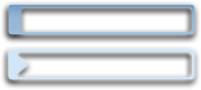
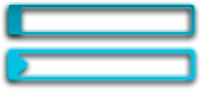
Add files via upload

diff --git a/css/main.css b/css/main.css
@@ -1,7 +1,11 @@
 /* COMMON */
-body { height: 100%;  margin: 0; display: flex; flex-direction: column; min-height: 100vh; font-family: Arial, Helvetica, sans-serif; font-size: 22px; color: #FFFFFF; text-decoration: none; margin: 0px; padding: 0px; background: url("../images/login_bg.png") no-repeat top, url(../images/starfield.gif) repeat, black; }
-a { font-size: 13px; color: #FFFFFF; text-decoration: none; }
-h1 { font-size: 13px; color: #FFFFFF; text-decoration: none; }
+body { height: 100%;  margin: 0; display: flex; flex-direction: column; min-height: 100vh; font-family: Arial, Helvetica, sans-serif; font-size: 22px; color: #FE6C02; text-decoration: none; margin: 0px; padding: 0px; background: url("../images/login_bg.png") no-repeat top, url(../images/starfield.gif) repeat, black; }
+p { font-size: 13px; color: #FE6C02; text-decoration: none; }
+li { font-size: 13px; color: #FE6C02; text-decoration: none; }
+a { font-size: 13px; color: #04D9FF; text-decoration: none; }
+h1 { font-size: 13px; color: #FE6C02; text-decoration: none; }
+i { font-size: 13px; color: #FE6C02; text-decoration: none; }
+c { font-size: 11px; color: #FFFFFF; }
 
 ul { list-style-image: url(../images/bullet1.png); }
 ul ul { list-style-image: url(../images/bullet2.png); }
@@ -13,67 +17,67 @@ img { border: none; }
 
 #topMenu { height: 59px; }
 #topMenuContainer { text-align: center; font-size: 10px; line-height: 24px; padding: 0px 10px; background: url(../images/top-menu_bg.png) top repeat-x; }
-#topMenu a { color: #DDDDDD; margin: auto 5px; }
-#topMenu a:hover { text-shadow: 0px 0px 5px #FFF; color: #FFFFFF; text-decoration: underline; }
+#topMenu a { margin: auto 5px; }
+#topMenu a:hover { text-shadow: 0px 0px 5px #04D9FF; text-decoration: underline; }
 
 /* TIP: Uncomment the following line to hide the top menu */
 /*#topMenuContainer { display: none; }*/
 
 #site { position: relative; height: 168px; text-align: center; } 
-#site h1 { position: relative; top: 110px; left: 280px; width: 400px; margin: 0px auto; font-size: 22px; text-align: center; text-shadow: 0px 2px 10px #000; }
-#site h1 span { text-shadow: 0px 0px 3px #000, 0px 2px 6px #7adefe, 0px 2px 14px #7adefe; }
+#site h1 { position: relative; top: 110px; left: 280px; width: 400px; margin: 0px auto; font-size: 22px; text-align: center; text-shadow: 0px 2px 10px #FE6C02; }
+#site h1 span { text-shadow: 0px 0px 3px #FE6C02, 0px 2px 6px #04D9FF, 0px 2px 14px #FE6C02; }
 
 #mainMenu { position: absolute; width: 100%; top: 330px; text-align: center; height: 41px; background: url(../images/main-menu_bg.png) top repeat-x; }
 #mainMenuContainer { float: left; position: relative; right: -50%; }
 #mainMenuContainer2 { position: relative; right: 50%; }
-#mainMenu a { text-shadow: 0px 1px 2px #154257, 0px 0px 6px #DFEFF7; display: block; position: relative; float: left; width: 189px; height: 32px; line-height: 32px; font-weight: bold; margin-top: 4px; background: url(../images/main-menu_button.png) center top no-repeat; }
-#mainMenu a:hover { text-shadow: 0px 0px 3px #FFF, 0px 0px 13px #DFEFF7; background-position: center 100%; -moz-box-shadow: 0px 0px 25px #7ABDDE; -webkit-box-shadow: 0px 0px 25px #7ABDDE; box-shadow: 0px 0px 25px #7ABDDE; text-decoration: underline; }
+#mainMenu a { text-shadow: 0px 1px 2px #04D9FF, 0px 0px 6px #FE6C02; display: block; position: relative; float: left; width: 189px; height: 32px; line-height: 32px; font-weight: bold; margin-top: 4px; background: url(../images/main-menu_button.png) center top no-repeat; }
+#mainMenu a:hover { text-shadow: 0px 0px 3px #04D9FF, 0px 0px 13px #FE6C02; background-position: center 100%; border-radius: 5px; -moz-box-shadow: 0px 0px 25px #04D9FF; -webkit-box-shadow: 0px 0px 25px #04D9FF; box-shadow: 0px 0px 25px #04D9FF; text-decoration: underline; }
 
 /* TIP: Uncomment the following line to hide the main menu */
 /*#mainMenu { display: none; }*/  
 
 /* CONTENT */
-#content { flex: 1; background: #040f1a url(../images/content_bg.png) top repeat-x; clear: both; }
+#content { flex: 1; clear: both; background: url(../images/content_bg.png) top repeat-x, linear-gradient(0deg, #000048 0%, #00001E 15%);  }
 #contentContainer { margin: auto; position: relative; width: 1024px; }
 
 #leftColumn { position: absolute; left: 0px; top: 0px; width: 240px; padding: 10px; padding-top: 10px; }
 #leftMenu { text-align: center; background: url(../images/left-menu_bg.png) top repeat-x; }
-#leftMenu a { text-shadow: 0px 0px 7px #CEDEEC; color: #CEDEEC; margin: auto; font-weight: bold; line-height: 44px; display: block; width: 201px; height: 44px; background: url(../images/left-menu_button.png) center top no-repeat; }
-#leftMenu a:hover { text-shadow: 0px 0px 4px #FFF, 0px 0px 10px #CEDEEC; color: #FFFFFF; background-position: center 100%; text-decoration: underline; }
+#leftMenu a { text-shadow: 0px 0px 7px #FE6C02; margin: auto; font-weight: bold; line-height: 44px; display: block; width: 201px; height: 44px; background: url(../images/left-menu_button.png) center top no-repeat; }
+#leftMenu a:hover { text-shadow: 0px 0px 4px #04D9FF, 0px 0px 10px #FE6C02; background-position: center 100%; text-decoration: underline; }
 
 /* TIP: Uncomment the following line to hide the left menu */
 /*#leftMenu { display: none; }*/
 
 #icons { text-align: center; }
-#icons a { width: 100%; height: 35px; margin-bottom: -1px; padding-top: 3px; text-align: left; display: block; line-height: 44px; border: 1px solid #7ABDDE; border-radius: 5px; border-right-width: 0px; }
+#icons a { width: 100%; height: 35px; margin-bottom: -1px; padding-top: 3px; text-align: left; display: block; line-height: 44px; border: 1px solid #04D9FF; border-radius: 5px; border-right-width: 0px; }
 #icons a:hover { text-decoration: underline; }
 
 #middleColumn { position: relative; margin-left: 240px; width: 500px; padding: 20px 20px; }
 .article { clear: both; padding-bottom: 40px; }
-.article h1 { text-shadow: 0px 0px 3px #A9E1E9, 0px 2px 10px #000; border: 0px solid #32506D; border-bottom-width: 1px; margin: 0px; margin-top: 30px; padding-bottom: 5px; padding-left: 0px; }
+.article h1 { text-shadow: 0px 0px 3px #04D9FF, 0px 2px 10px #000; border: 0px solid #04D9FF; border-bottom-width: 1px; margin: 0px; margin-top: 30px; padding-bottom: 5px; padding-left: 0px; }
 .articleBody { font-size: 17px; padding: 0px 10px; line-height: 18px; text-align: justify; }
-.articleInfo { color: #999999; font-size: 10px; padding: 5px 0px; }
+.articleInfo { font-size: 10px; padding: 5px 0px; }
 .articleAuthor { float: left; }
-.articleAuthor span { font-style: italic; text-shadow: 0px 0px 5px #999; }
+.articleAuthor span { font-style: italic; text-shadow: 0px 0px 5px #04D9FF; }
 .articleDate { float: right; }
 
 #rightColumn { position: absolute; right: 0px; top: 0px; width: 240px; padding: 10px; padding-top: 10px; }
-.box {	font-size: 11px; background: #224466 url(../images/box_bg.png) top repeat-x; border: 1px solid #32506D; margin-bottom: 10px; padding: 10px; -moz-border-radius: 5px; border-radius: 5px;
-				border-top-color: #32506D; border-left-color: #32506D; border-right-color: #11273D; border-bottom-color: #11273D; 
+.box {	font-size: 11px; background: #00006B url(../images/box_bg.png) top repeat-x; border: 1px solid #000080; margin-bottom: 10px; padding: 10px; -moz-border-radius: 5px; border-radius: 5px;
+				border-top-color: #04D9FF; border-left-color: #04D9FF; border-right-color: #FE6C02; border-bottom-color: #FE6C02; 
 				-moz-box-shadow: 0px 10px 13px #000; -webkit-box-shadow: 0px 10px 13px #000; box-shadow: 0px 10px 13px #000; }
-.box h1 { text-shadow: 0px 0px 3px #A9E1E9, 0px 2px 5px #000; margin: 0px; font-size: 15px; }
-.box-important { background: #264c72 url(../images/box-important_bg.png) top repeat-x; -moz-box-shadow: 0px 0px 8px #DFEFF7, 0px 0px 25px #7ABDDE; -webkit-box-shadow: 0px 0px 8px #DFEFF7, 0px 0px 25px #7ABDDE; box-shadow: 0px 0px 8px #DFEFF7, 0px 0px 25px #7ABDDE; }
+.box h1 { text-shadow: 0px 0px 3px #04D9FF, 0px 2px 5px #000; margin: 0px; font-size: 15px; }
+.box-important { background: #000078 url(../images/box-important_bg.png) top repeat-x; -moz-box-shadow: 0px 0px 8px #04D9FF, 0px 0px 25px #FE6C02; -webkit-box-shadow: 0px 0px 8px #04D9FF, 0px 0px 25px #FE6C02; box-shadow: 0px 0px 8px #04D9FF, 0px 0px 25px #FE6C02; }
 
 
 /* FOOTER */
 #footer { position: relative; text-align: center; padding: 40px 0px 20px 0px; background: url(../images/footer_bg.png) top repeat-x; clear: both; }
 
-#bottomMenu { margin-bottom: 20px; color: #AAA; font-size: 8px; }
+#bottomMenu { margin-bottom: 20px; font-size: 8px; }
 #bottomMenuContainer {}
-#bottomMenu a { text-shadow: 0px 2px 7px #000; margin: auto 7px; color: #EEE; font-size: 11px; }
-#bottomMenu a:hover { text-shadow: 0px 0px 3px #FFF, 0px 2px 7px #000; color: #FFF; text-decoration: underline; }
+#bottomMenu a { text-shadow: 0px 2px 7px #FE6C02; margin: auto 7px; font-size: 11px; }
+#bottomMenu a:hover { text-shadow: 0px 0px 3px #04D9FF, 0px 2px 7px #FE6C02; text-decoration: underline; }
 
 /* TIP: Uncomment the following line to hide the the bottom menu */
 /*#bottomMenu { display: none; }*/
 
-#copyright { text-align: center; font-size: 11px;  color: #DDD; }
+#copyright { text-align: center; }

diff --git a/css/index.css b/css/index.css
@@ -1,25 +1,31 @@
 /* COMMON */
-body { height: 100%;  margin: 0; display: flex; flex-direction: column; min-height: 100vh; font-family: Arial, Helvetica, sans-serif; font-size: 22px; color: #FFFFFF; margin: 0px; padding: 0px; background: url("../images/login_bg.png") no-repeat top, url(../images/starfield.gif) repeat, black; }
-h1 { font-size: 13px; color: #FFFFFF; text-shadow: 0px 0px 3px #A9E1E9, 0px 2px 6px #7adefe, 0px 2px 14px #7adefe; text-decoration: underline; }
-a { font-size: 13px; color: #FFFFFF;  text-decoration: none; }
-c { font-size: 11px; color: #FFFFFF;  text-decoration: none; }
+body { height: 100%;  margin: 0; display: flex; flex-direction: column; min-height: 100vh; font-family: Arial, Helvetica, sans-serif; font-size: 22px; color: #FE6C02; margin: 0px; padding: 0px; background: url("../images/login_bg.png") no-repeat top, url(../images/starfield.gif) repeat, black; }
+h1 { text-align: center; font-size: 13px; color: #FE6C02; text-decoration: none; }
+a { text-align: center; font-size: 13px; color: #04D9FF; text-decoration: none; }
+p { text-align: center; font-size: 13px; color: #FE6C02; text-decoration: none; }
+c { text-align: center; font-size: 11px; color: #FFFFFF; text-decoration: none; }
 img { border: none; }
 /* HEADER */
-#header { position: relative; height: 59px; background: url(../images/top-menu_bg.png) top repeat-x; }
-#header h1 { text-align: center; font-size: 10px; line-height: 24px; padding: 0px 10px; margin: auto 5px; }
-#header a { font-size: 10px; }
+#header { position: relative; height: 330px; background: url(../images/top-menu_bg.png) top repeat-x; }
+#header h1 { font-size: 10px; line-height: 24px; padding: 0px 10px; margin: auto 5px; }
+#headerbar { text-align: center; position: relative; width: 100%; height: 41px; background: url(../images/main-menu_bg.png) top repeat-x; }
+#headerbar h1 { font-size: 10px; line-height: 40px; padding: 0px 10px; margin: auto 5px; }
+#headerbar a { font-size: 10px; line-height: 40px; padding: 0px 10px; margin: auto 5px; }
 /* CONTENT */
-#content { flex: 0; width: 997px; height: 100px; margin: auto; position: relative; text-align: center; background-size: 100% auto; padding-top: 9px; padding-bottom: 24px; background: url(../images/bottom_bg.png) bottom center no-repeat, url(../images/top_bg.png) top center no-repeat, url(../images/mid_bg.png) center top -60px repeat-y ; 
-	border: 1px solid #21333E; -moz-border-radius: 20px; border-radius: 20px; border-top-color: #21333E; border-left-color: #21333E; border-right-color: #21333E; border-bottom-color: #21333E; -moz-box-shadow: 0px 0px 8px #FFA523, 0px 0px 25px #21333e; -webkit-box-shadow: 0px 0px 8px #FFA523, 0px 0px 25px #21333e; box-shadow: 0px 0px 8px #FFA523, 0px 0px 25px #21333e; }
-#content h1 { margin-top: -6px; margin-bottom: 0px; font-size: 41px }
-#content a { text-shadow: 0px 1px 6px #154257, 0px 2px 6px #CEDEEC; margin-top: 10px; margin-bottom: 20px; padding-top: 0px; padding-bottom: 0px;}
-#content img {  }
+#content { flex: 1; padding-top: 10px; padding-bottom: 30px; clear: both; background: url(../images/content_bg.png) top repeat-x, linear-gradient(0deg, #000048 0%, #00001E 15%); }
+#contentContainer { margin: auto; position: relative; width: 1024px; }
+#box { width: 997px; margin: auto; position: relative; background-size: 100% auto; padding-top: 9px; padding-bottom: 24px; background: url(../images/bottom_bg.png) bottom center no-repeat, url(../images/top_bg.png) top center no-repeat, url(../images/mid_bg.png) center top -60px repeat-y, #000080; 
+	border: 1px solid #000080; -moz-border-radius: 20px; border-radius: 20px; border-top-color: #000080; border-left-color: #000080; border-right-color: #000080; border-bottom-color: #000080; -moz-box-shadow: 0px 0px 8px #FE6C02, 0px 0px 25px #04D9FF; -webkit-box-shadow: 0px 0px 8px #FE6C02, 0px 0px 25px #04D9FF; box-shadow: 0px 0px 8px #FE6C02, 0px 0px 25px #04D9FF; }
+#box h1 { margin-top: -6px; margin-bottom: 0px; font-size: 41px; text-shadow: 0px 0px 3px #FE6C02, 0px 2px 6px #04D9FF, 0px 2px 14px #FE6C02; text-decoration: underline; }
+#box a { margin-top: 10px; margin-bottom: 20px; padding-top: 0px; padding-bottom: 0px; }
+#box p { text-shadow: 0px 1px 6px #04D9FF, 0px 2px 6px #FE6C02; }
+#box img {  }
 #button { padding-top: 0px; padding-bottom: 0px; }
-#button a { text-align: center; display: block; height: 170px;  background: url(../images/map-iconInternet.png) center top no-repeat; background-size: 170px; }
-#button a:hover { background-position: center 100%; }
+#button a { display: block; height: 170px;  background: url(../images/map-iconInternet.png) center top no-repeat; background-size: 170px; }
+#button a:hover { background-position: center 100%; text-decoration: underline; }
 #button img { height: 66px; margin-top: 5%; margin-bottom: 0%; margin-left: 50%; }
 /* FOOTER */
-#footer { position: relative; text-align: center; padding: 40px 0px 20px 0px; background: url(../images/footer_bg.png) top repeat-x; clear: both; }
-#footer a { text-shadow: 0px 2px 7px #000; margin: auto 7px; color: #EEE; font-size: 11px; text-decoration: underline; }
-#footer a:hover { text-shadow: 0px 0px 3px #FFF, 0px 2px 7px #000; color: #FFF; }
-#footer c { color: #DDD; }
+#footer { text-align: center; position: relative; padding: 40px 0px 20px 0px; background: url(../images/footer_bg.png) top repeat-x; clear: both; }
+#footer a { text-shadow: 0px 2px 7px #FE6C02; margin: auto 7px; font-size: 11px;  }
+#footer a:hover { text-shadow: 0px 0px 3px #04D9FF, 0px 2px 7px #FE6C02; text-decoration: underline; }
+#footer c {  }

diff --git a/index.html b/index.html
@@ -6,21 +6,26 @@
 	<link href="css/index.css" rel="stylesheet" type="text/css">
 	<!--[if lte IE 6]><link href="css/quirks.css" rel="stylesheet" type="text/css"><![endif]-->
 	<link href="images/favicon.png" rel="icon" type="image/png">
-	<meta HTTP-EQUIV="REFRESH" content="5; url=Home.html">
+	<meta HTTP-EQUIV="REFRESH" content="9995; url=Home.html">
 </head>
 <body>
 	<!-- HEADER SECTION -->
 	<div id="header">
 		<h1>Launch Site</h1>
 	</div>
-	<!-- CONTENT SECTION -->
-	<div id="content">
-		<h1>Site is Launching in 5 seconds</h1>
-			<div id="button">
-				<a href="Home.html"><img src="images/loading.gif" /></a>
-			</div>
-		<a>Site is Launching in 5 seconds</a>
+	<div id="headerbar">
+		<h1>Launch Site</h1>
 	</div>
+	<!-- CONTENT SECTION -->
+	<div id="content"><div id="contentContainer">
+		<div id="box">
+			<h1>Site is Launching in 5 seconds</h1>
+				<div id="button">
+					<a href="Home.html"><img src="images/loading.gif" /></a>
+				</div>
+			<p>Site is Launching in 5 seconds</p>
+		</div>
+	</div></div>
 	<!-- FOOTER SECTION -->
 	<div id="footer">
 		<a href="https://github.com/jdjcool1/jdjcool1.github.io/tree/main">jdjcool1.github.io</a><br/><br/>

diff --git a/404.html b/404.html
@@ -69,8 +69,8 @@
 						</ul>
 					</div>
 					<div class="articleInfo">
-						<div class="articleAuthor">Posted by <span>jdjcool1</span></div>
-						<div class="articleDate">Date Nul</div>
+						<div class="articleAuthor"><i>Posted by <span>jdjcool1</span></i></div>
+						<div class="articleDate"><i>Date Nul</i></div>
 					</div>
 				</div>
 			</div>
@@ -103,8 +103,8 @@
 			</div></div>
 			
 			<div id="copyright">
-				This website is usuing GitHub Pages Hosting.<br/>
-				You can use GitHub Pages to host a website about yourself, your organization, or your project directly from a repository on GitHub.
+				<c>This website is usuing GitHub Pages Hosting.<br/>
+				You can use GitHub Pages to host a website about yourself, your organization, or your project directly from a repository on GitHub.</c>
 			</div>	
 		</div>
 		

diff --git a/Home.html b/Home.html
@@ -70,8 +70,8 @@
 						</ul>
 					</div>
 					<div class="articleInfo">
-						<div class="articleAuthor">Posted by <span>jdjcool1</span></div>
-						<div class="articleDate">Date Nul</div>
+						<div class="articleAuthor"><i>Posted by <span>jdjcool1</span></i></div>
+						<div class="articleDate"><i>Date Nul</i></div>
 					</div>
 				</div>
 			</div>
@@ -105,8 +105,8 @@
 			</div></div>
 			
 			<div id="copyright">
-				This website is usuing GitHub Pages Hosting.<br/>
-				You can use GitHub Pages to host a website about yourself, your organization, or your project directly from a repository on GitHub.
+				<c>This website is usuing GitHub Pages Hosting.<br/>
+				You can use GitHub Pages to host a website about yourself, your organization, or your project directly from a repository on GitHub.</c>
 			</div>	
 		</div>
 		

diff --git a/cga.html b/cga.html
@@ -70,8 +70,8 @@
 						</ul>
 					</div>
 					<div class="articleInfo">
-						<div class="articleAuthor">Posted by <span>jdjcool1</span></div>
-						<div class="articleDate">Date Nul</div>
+						<div class="articleAuthor"><i>Posted by <span>jdjcool1</span></i></div>
+						<div class="articleDate"><i>Date Nul</i></div>
 					</div>
 				</div>
 			</div>
@@ -105,8 +105,8 @@
 			</div></div>
 			
 			<div id="copyright">
-				This website is usuing GitHub Pages Hosting.<br/>
-				You can use GitHub Pages to host a website about yourself, your organization, or your project directly from a repository on GitHub.
+				<c>This website is usuing GitHub Pages Hosting.<br/>
+				You can use GitHub Pages to host a website about yourself, your organization, or your project directly from a repository on GitHub.</c>
 			</div>	
 		</div>
 		

diff --git a/dsa.html b/dsa.html
@@ -70,8 +70,8 @@
 						</ul>
 					</div>
 					<div class="articleInfo">
-						<div class="articleAuthor">Posted by <span>jdjcool1</span></div>
-						<div class="articleDate">Date Nul</div>
+						<div class="articleAuthor"><i>Posted by <span>jdjcool1</span></i></div>
+						<div class="articleDate"><i>Date Nul</i></div>
 					</div>
 				</div>
 			</div>
@@ -105,8 +105,8 @@
 			</div></div>
 			
 			<div id="copyright">
-				This website is usuing GitHub Pages Hosting.<br/>
-				You can use GitHub Pages to host a website about yourself, your organization, or your project directly from a repository on GitHub.
+				<c>This website is usuing GitHub Pages Hosting.<br/>
+				You can use GitHub Pages to host a website about yourself, your organization, or your project directly from a repository on GitHub.</c>
 			</div>	
 		</div>
 		

diff --git a/dsn.html b/dsn.html
@@ -70,8 +70,8 @@
 						</ul>
 					</div>
 					<div class="articleInfo">
-						<div class="articleAuthor">Posted by <span>jdjcool1</span></div>
-						<div class="articleDate">Date Nul</div>
+						<div class="articleAuthor"><i>Posted by <span>jdjcool1</span></i></div>
+						<div class="articleDate"><i>Date Nul</i></div>
 					</div>
 				</div>
 			</div>
@@ -105,8 +105,8 @@
 			</div></div>
 			
 			<div id="copyright">
-				This website is usuing GitHub Pages Hosting.<br/>
-				You can use GitHub Pages to host a website about yourself, your organization, or your project directly from a repository on GitHub.
+				<c>This website is usuing GitHub Pages Hosting.<br/>
+				You can use GitHub Pages to host a website about yourself, your organization, or your project directly from a repository on GitHub.</c>
 			</div>	
 		</div>
 		

diff --git a/jdd.html b/jdd.html
@@ -70,8 +70,8 @@
 						</ul>
 					</div>
 					<div class="articleInfo">
-						<div class="articleAuthor">Posted by <span>jdjcool1</span></div>
-						<div class="articleDate">Date Nul</div>
+						<div class="articleAuthor"><i>Posted by <span>jdjcool1</span></i></div>
+						<div class="articleDate"><i>Date Nul</i></div>
 					</div>
 				</div>
 			</div>
@@ -105,8 +105,8 @@
 			</div></div>
 			
 			<div id="copyright">
-				This website is usuing GitHub Pages Hosting.<br/>
-				You can use GitHub Pages to host a website about yourself, your organization, or your project directly from a repository on GitHub.
+				<c>This website is usuing GitHub Pages Hosting.<br/>
+				You can use GitHub Pages to host a website about yourself, your organization, or your project directly from a repository on GitHub.</c>
 			</div>	
 		</div>
 		

diff --git a/tat.html b/tat.html
@@ -70,8 +70,8 @@
 						</ul>
 					</div>
 					<div class="articleInfo">
-						<div class="articleAuthor">Posted by <span>jdjcool1</span></div>
-						<div class="articleDate">Date Nul</div>
+						<div class="articleAuthor"><i>Posted by <span>jdjcool1</span></i></div>
+						<div class="articleDate"><i>Date Nul</i></div>
 					</div>
 				</div>
 			</div>
@@ -105,8 +105,8 @@
 			</div></div>
 			
 			<div id="copyright">
-				This website is usuing GitHub Pages Hosting.<br/>
-				You can use GitHub Pages to host a website about yourself, your organization, or your project directly from a repository on GitHub.
+				<c>This website is usuing GitHub Pages Hosting.<br/>
+				You can use GitHub Pages to host a website about yourself, your organization, or your project directly from a repository on GitHub.</c>
 			</div>	
 		</div>
 		
